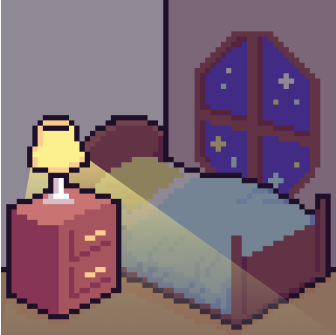
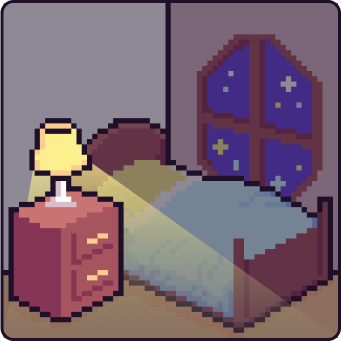
[fix] 방안 이미지 사진 교체

diff --git a/src/components/tutorial/Room.tsx b/src/components/tutorial/Room.tsx
@@ -3,7 +3,7 @@ import roomImg from '../../assets/tutorial/room/my_room.png'
 
 const Room = ({ handleNextStep }: { handleNextStep: () => void }) => {
   return (
-    <div className="flex h-screen w-full flex-col items-center justify-center">
+    <div className="flex h-full flex-col items-center justify-center">
       <div className="relative w-[90%]">
         <img src={roomImg} alt="방" className="w-full" />
         <button onClick={handleNextStep}>
